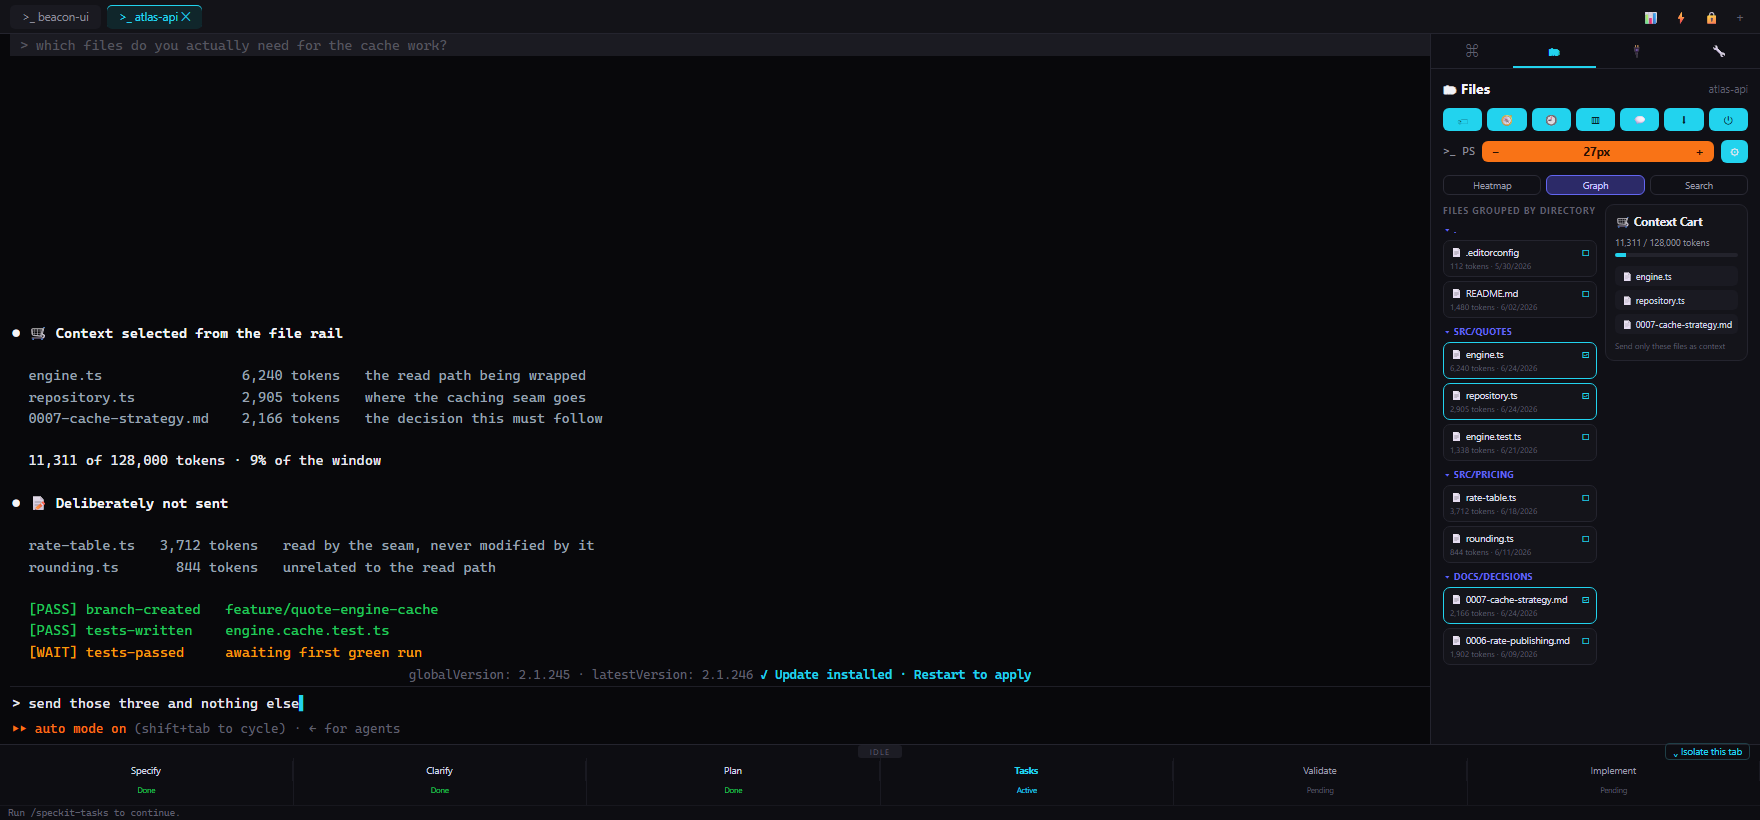
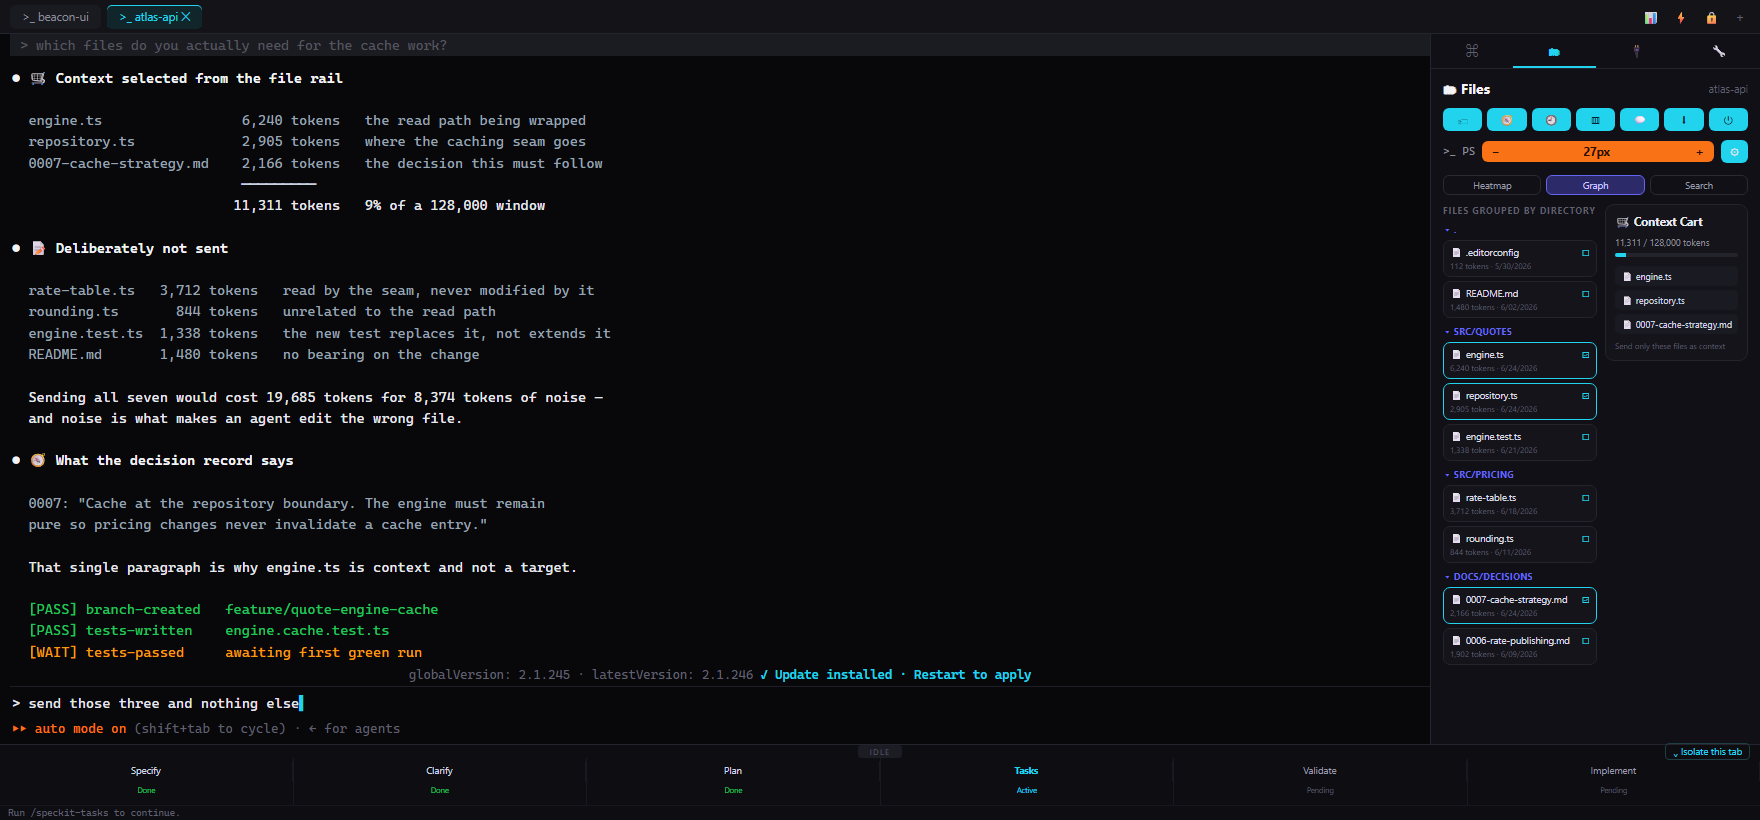
fix: fill the Forge Terminal panes and cache-bust portfolio screenshots
Two problems with the same symptom — the screens looked unchanged.

The sessions were about half the height of the terminal pane, so every screen
carried a band of empty scrollback above the prompt and read as an idle app
rather than one being worked in. Each session is now long enough to fill the
pane, and each has its own colour character so they differ at a glance and not
only on close reading: green passes, amber warnings, a progress list, a
decision table.

The second was mine: asset filenames never change and Pages caches them for ten
minutes, so a returning visitor kept being served the previous screenshots and
the deploy looked like a no-op. Image sources now carry a version query, the
same way the JS and data modules already did.

Claude-Session: https://claude.ai/code/session_018eQd4dQfV5PEF8yogU3z7k

diff --git a/web/portfolio/app.js b/web/portfolio/app.js
@@ -23,6 +23,11 @@ const FLAGSHIP_APP_SLUG = 'forge-terminal';
 // proceed without a human, NodeToolbox refuses to guess at a number.
 const DEPTH_APP_SLUGS = ['lgbuilder', 'nodetoolbox'];
 
+// Screenshot filenames are stable across rebuilds, so a returning visitor's
+// browser serves the old image until its cache expires. Bump this whenever the
+// assets are regenerated so a redeploy is never invisible.
+const ASSET_VERSION = '20260826-fuller-terminals';
+
 const GITHUB_COMMIT_BASE_URL = 'https://github.com/mikejsmith1985/forge-terminal/commit/';
 
 function escapeHtml(value) {
@@ -80,7 +85,7 @@ function createFeatureFigure(feature, app, figureClassName) {
   return `
     <figure class="${escapeHtml(figureClassName)}">
       <img
-        src="${escapeHtml(feature.imagePath)}"
+        src="${escapeHtml(feature.imagePath)}?v=${escapeHtml(ASSET_VERSION)}"
         alt="${escapeHtml(`${app.name} — ${feature.title}`)}"
         loading="lazy"
       />

diff --git a/CHANGELOG.md b/CHANGELOG.md
@@ -15,6 +15,8 @@ and this project adheres to [Semantic Versioning](https://semver.org/spec/v2.0.0
 - **Portfolio module URLs now bust GitHub Pages cache** — Added static cache-busting query strings to the portfolio app/data module URLs so public visitors receive the latest deployed showcase copy immediately.
 - **MBL2PC portfolio device label now says PC** — Simplified the mocked sender label from "Work PC" to "PC" in the portfolio copy, refreshed MBL2PC screenshots, and bumped the portfolio cache key so public visitors receive the concise label.
 - **QuiKeys portfolio now highlights reusable service snippets** — Reframed the QuiKeys showcase around standard greetings, customer-service paragraphs, follow-up text, and support signatures instead of developer command macros.
+- **Forge Terminal terminals now fill their pane and read differently at a glance** — The sessions were roughly half the height of the terminal, so each screen showed a band of empty scrollback above the prompt and read as an idle app. Each session is now long enough to fill the pane, with the oldest line clipping at the top the way a terminal scrolled to the bottom actually does, and each has its own colour character: the sandboxed test run is a wall of green passes, the bug recording is amber console warnings, the release job is a progress list, the planning session is a decision table. A test enforces a minimum scrollback length so a screen cannot regress to looking idle.
+- **Screenshots now cache-bust, so a redeploy is never invisible** — Asset filenames are stable across rebuilds and GitHub Pages serves them with a ten-minute cache, so a returning visitor kept seeing the previous screenshots after a deploy — the change looked like it had not shipped. Image sources now carry the same kind of version query the JS and data modules already used.
 - **Portfolio narrowed to four products, and mbl2pc rebuilt as replicas** — Retired the EZTest and QuiKeys entries. Both sold UX polish while every other entry sells engineering judgement, and a reader's impression is set by the weakest item on the page rather than the average. The remaining four are Forge Terminal, LG-Builder, NodeToolbox, and mbl2pc. mbl2pc was the last section still publishing genuine screenshots — captures of personal devices, one of which showed a file named after a real person — so it is now three source-derived replicas across the app's light, dark, and ocean themes, with copy rewritten to match what the screens actually show rather than the retired résumé narrative. The real-capture copy path and its constants were deleted with the last consumer, and `imageKind` narrowed to replicas only.
 - **A private filename was surviving in published data, and now cannot** — The per-app screen suites scan rendered markup, so they could not see a real filename sitting in a field that described how the data had been anonymised. One did, and it reached `web/portfolio/data/apps.mjs`. A new test scans everything the site actually publishes — the generated app data, the narrative data, and the page markup — against the combined list of private strings from every product.
 - **LG-Builder added to the portfolio as a second depth entry** — The agentic delivery pipeline built on LangGraph now has its own full-width section, with five surfaces across the two places it actually runs: the chat integration where it stops and asks a human, the SLA escalation and auto-rejection that fire when nobody answers, the review queue that keeps the authoritative record of every pause, the pipeline view showing a production defect fed back into intake, and the automation policy that makes every limit on the machine a setting rather than a code change. The reference material was a real chat workspace and a live admin console, so the server, channels, colleagues, ticket identifiers, issue keys, repository URLs, and escalation webhook are all invented in `lgbuilder-demo-data.mjs`; the webhook is rendered masked so no usable credential is published at all, and a guard test rejects both known private strings and any opaque credential-shaped value while still allowing the product's own snake_case checkpoint identifiers. The depth tier now holds two products, and the registry's hard product-count assertions were replaced with a range so adding or retiring a product no longer breaks the build.
